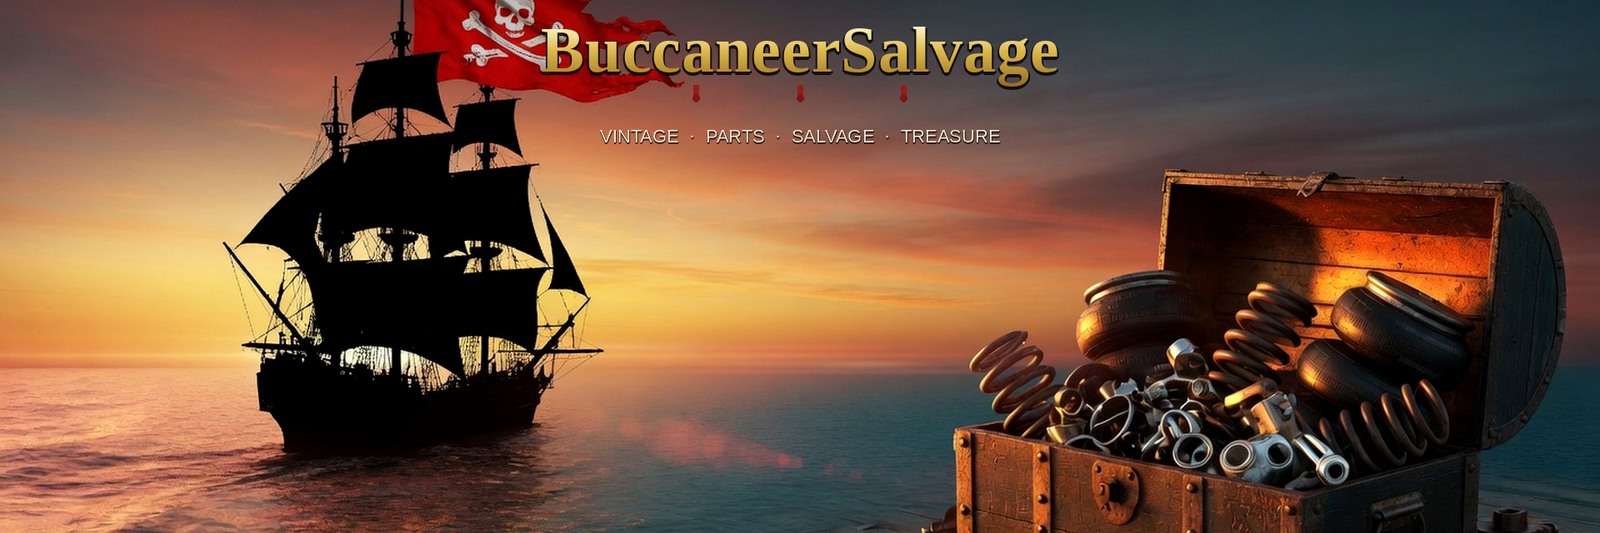
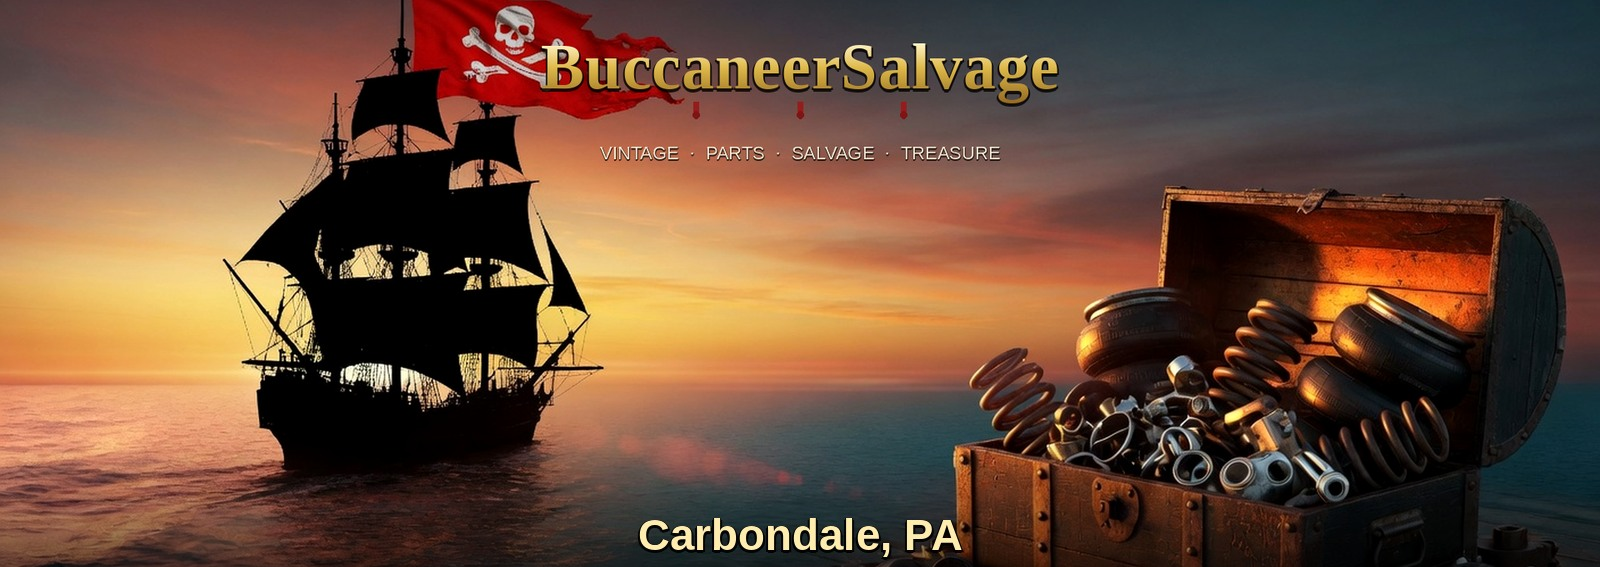
Sync BuccaneerSalvage hub + Ukiri from local sites
Hub: ~/sites/buccaneersalvage-hub → /
Ukiri: ~/sites/ukirithief → /ukiri/

diff --git a/store.html b/store.html
@@ -131,7 +131,7 @@
     <section class="st-ebay-banner" aria-label="eBay Store">
       <div class="shell">
         <a class="st-banner-link" href="https://www.ebay.com/str/buccaneersalvage" target="_blank" rel="noopener noreferrer" title="Visit BuccaneerSalvage on eBay">
-          <img class="st-banner-image" src="assets/store-banner-jolly-v3.jpg" alt="BuccaneerSalvage Jolly Roger — vintage parts, salvage, treasure · Carbondale, PA" width="1600" height="533" decoding="async" loading="lazy" />
+          <img class="st-banner-image" src="assets/store-banner-jolly-v3.jpg" alt="BuccaneerSalvage Jolly Roger — vintage parts, salvage, treasure · Carbondale, PA" width="1600" height="567" decoding="async" loading="lazy" />
         </a>
       </div>
     </section>
